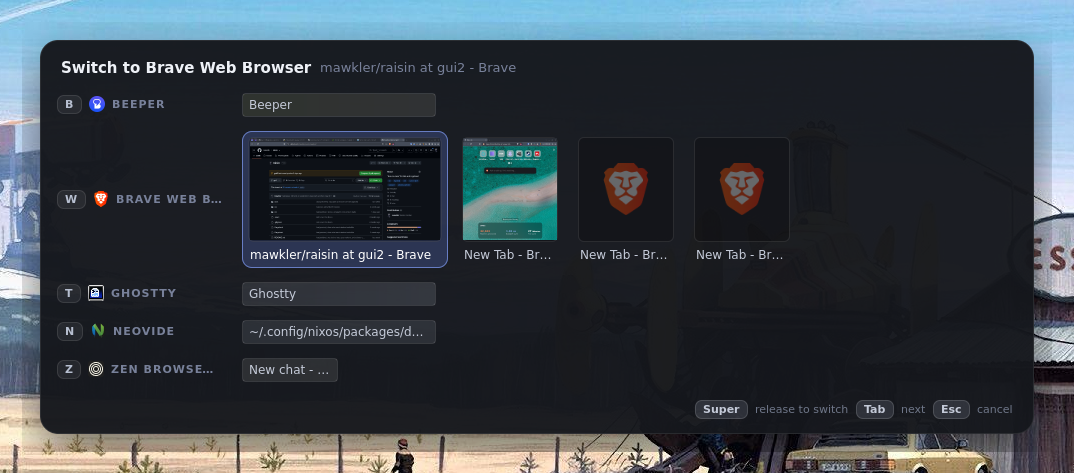
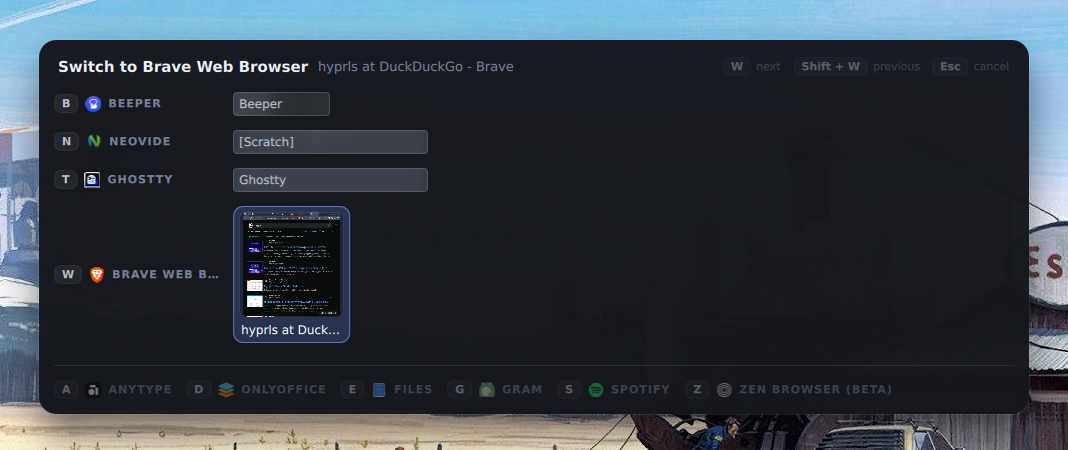
docs: describe the Quickshell switcher

diff --git a/docs/window-previews.md b/docs/window-previews.md
@@ -2,10 +2,8 @@
 
 How the switcher shows what each window actually looks like, rather than only its title.
 
-This started as a plan and is now mostly built: the standard capture protocols, on a thread of
-their own, feeding thumbnails into the rows of the application being switched to. What is still
-only planned is called out at the bottom. The survey and the protocol notes are kept because they
-are the reasoning behind what was built.
+The overlay is drawn by Quickshell, and the pictures come from its `ScreencopyView`: the daemon
+never touches a capture. This page is what the view does with them, and the reasoning behind it.
 
 ## What it has to leave alone
 
@@ -14,11 +12,14 @@ The switcher's two hard timing rules come first, and previews are additive to bo
 - **A fast tap must show nothing.** Capturing has to start when the overlay is revealed, not when
   the key is pressed. A tap that never reveals anything must never capture anything either.
 - **Confirming must not wait for drawing.** A preview that is still arriving, or never arrives,
-  must not delay or block a switch. The session state machine in `src/daemon/controller.rs` stays
-  exactly as it is: previews are a view concern, and the overlay shows a placeholder until a
-  texture turns up.
+  must not delay or block a switch. The session state machine in `src/daemon/controller.rs` owns
+  both rules: previews are a view concern, and the view shows a placeholder until a picture turns
+  up.
 
-That means no capture may ever be awaited on the path from a key press to a focused window.
+Both hold by construction. The view hears about a switch only through `Effect::Fill`, which the
+state machine emits once the switcher is to be on screen, so a tap never reaches it. And the daemon
+only ever writes to the view, on a thread of its own, so nothing on the path from a key press to a
+focused window can wait on it.
 
 ## How other switchers do it
 
@@ -28,132 +29,36 @@ That means no capture may ever be awaited on the path from a key press to a focu
 | Portal ScreenCast (xdg-desktop-portal + PipeWire) | OBS window capture, most screen sharing | Built for sharing, not thumbnails: a consent dialog per source, a PipeWire dependency, and a session setup measured in hundreds of milliseconds. Wrong shape for something that has to appear in 90 ms. |
 | `wlr-screencopy-unstable-v1`, cropped to the window | `grim`, `wayshot`, and the crop-the-screenshot trick | Captures an output, not a window. Only works for windows currently on screen, so most of a grouped list would come back blank, stale, or showing whatever is on top of them. |
 | `hyprland-toplevel-export-v1` | `xdg-desktop-portal-hyprland`'s window sharing | Captures one window by address, whether or not it's visible. Exact and available today — and Hyprland-only. |
-| `ext-image-capture-source-v1` + `ext-image-copy-capture-v1` | The standardised successor to both wlr-screencopy and toplevel-export | Same capability, specified rather than vendor-specific, with a capture source for a foreign toplevel. This is the one to build against. |
+| `ext-image-capture-source-v1` + `ext-image-copy-capture-v1` | The standardised successor to both wlr-screencopy and toplevel-export | Same capability, specified rather than vendor-specific, with a capture source for a foreign toplevel. What Quickshell's `ScreencopyView` uses where the compositor offers it. |
 
-## What Hyprland 0.56.2 actually implements
+## How the view does it
 
-Verified by reading the source rather than the wiki:
-
-- `src/protocols/ImageCaptureSource.cpp` exposes **both** capture source managers, including
-  `ext_foreign_toplevel_image_capture_source_manager_v1` (`CToplevelImageCaptureSourceProtocol`).
-- `src/protocols/ImageCopyCapture.cpp` opens a capture session per window
-  (`Screenshare::mgr()->newSession(client, window)`).
-- `src/managers/screenshare/ScreenshareFrame.cpp::renderWindow()` renders the window into the
-  capture buffer with `g_pHyprRenderer->renderWindow(...)` and no visibility check, so **a window
-  on another workspace still captures**. That is the single most important property for a switcher,
-  and the crop-a-screenshot approach can't provide it.
-- `src/protocols/ToplevelExport.cpp` is still there, so older Hyprland remains reachable by the
-  vendor protocol.
-
-Elsewhere, sway and niri have landed `ext-image-copy-capture-v1` for **outputs and cursors** but not
-yet for toplevels. So building against the standard protocol buys nothing today beyond Hyprland —
-and everything tomorrow, at no cost to us, as each compositor lands the toplevel source.
-
-## Identifying a window across protocols
-
-The capture source is obtained from an `ext-foreign-toplevel-list-v1` handle, while everything else
-raisin knows about a window comes from Hyprland's IPC. They can be matched exactly, with no title
-guessing:
-
-- `ext_foreign_toplevel_handle_v1.identifier` is `std::format("{:x}", window->m_stableID)`
-  (`src/protocols/ForeignToplevel.cpp:67`).
-- `hyprctl clients -j` reports the same value as `"stableId": "{:x}"` (`src/debug/HyprCtl.cpp:423`).
-
-So `Window` gains an `identifier: String` alongside `id`, filled in by each compositor integration,
-and the preview layer never has to know what a Hyprland address is. Compositors without a stable
-identifier can leave it empty and get no previews, which is a supported state.
-
-## Shape of the code
-
-```
-src/compositor/mod.rs        trait Previews { fn capture(&self, windows: &[Window], sink: Sink); fn cancel(&self); }
-src/preview/mod.rs           the Wayland client: its own connection, on its own thread
-src/preview/ext_capture.rs   ext-image-copy-capture + ext-foreign-toplevel-list   (preferred)
-src/preview/hypr_export.rs   hyprland-toplevel-export-v1                          (older Hyprland)
-src/daemon/overlay.rs        a GdkTexture per row, placeholder until one arrives
-```
-
-- **Connection.** A second Wayland connection on a dedicated thread, mirroring how the Hyprland
-  event socket is already read: a thread, an `async-channel`, and a task on the GTK main loop.
-  Sharing GDK's connection would save a socket and cost a `Backend::from_foreign_display` and a
-  lifetime problem; a dmabuf or shm buffer crosses connections happily, so there's nothing to gain.
-- **Crates.** `wayland-client` plus `wayland-protocols` 0.32 with the `staging` feature, which has
-  `ext::image_copy_capture::v1`, `ext::image_capture_source::v1` and `ext::foreign_toplevel_list::v1`.
-  The Hyprland fallback needs its XML vendored and run through `wayland-scanner` in a build script.
-- **Into GTK.** `shm` buffers become a `gdk::MemoryTexture` — one CPU copy, trivial at thumbnail
-  sizes. That is where to start. The protocol hands out buffers at the window's full size, though,
-  so a 4K window is a 33 MB copy; once several windows are captured at once, switch to
-  `gdk::DmabufTextureBuilder` (GTK 4.14+, `v4_14` on the gtk4 crate) and let the GPU do the
-  scaling.
-- **Where it hooks in.** `Effect::Fill` starts captures once the switcher is on screen, and
-  `Effect::Retitle` re-orders them when the user swaps application, so the group now being looked
-  at is captured first; ending a session cancels them. Never on `Effect::ScheduleReveal`, which is
-  what keeps a fast tap free of work.
-- **One frame, not a stream.** An `ext-image-copy-capture` session delivers frames continuously;
-  raisin captures one per window per reveal and stops. Content that changes while the switcher is
-  open is not worth a frame loop.
+- **Finding the window.** The daemon sends each window's Hyprland address. The view looks it up
+  among Quickshell's `Hyprland.toplevels` and captures `toplevel.wayland`. Hyprland's IPC writes an
+  address with `0x` in front and Quickshell without, so the view drops it before comparing.
+- **Thumbnails are live** while their application is the one being switched to, so a video or a
+  terminal keeps moving in the switcher.
+- **Markers are not.** Every other window is a line-tall slice through the middle of its own
+  window, blurred, lifted a little and laid faintly over the panel, so that it is recognisable by
+  its colours while its title stays readable on top. A marker is captured once each time the
+  switcher appears: a slice that small and that blurred doesn't change enough to be worth keeping
+  live.
+- **Captures start a frame late.** The switcher is drawn first, with whatever each window last
+  showed, and captures start once it is on screen. Starting them with it held the first frame up
+  by about 100 ms.
+- **The blur goes on an item around the capture.** A `ScreencopyView` that is itself made a layer,
+  which every effect needs, draws nothing at all into it. Wrapped in an item that is the layer, it
+  draws as usual.
+- **A handover is the frame growing.** A marker and its thumbnail are the same width; opening a row
+  is its frames growing from a line to a thumbnail tall, uncovering the whole window as the blur
+  clears.
 
 ## What can go wrong
 
-| Failure | What the user should see |
+| Failure | What the user sees |
 | --- | --- |
-| Compositor has no toplevel capture source | Titles only, exactly as today. Not an error. |
-| A client hasn't drawn since it was last visible | Whatever it last drew, which is what every other switcher shows too. |
-| Capture takes longer than the switch | The row keeps its placeholder, the switch is unaffected. |
-| XWayland windows | Expected to work through the same path; worth an explicit test, since XWayland surfaces have bitten screencopy implementations before. |
-| A window positioned entirely off the monitor | Its application's icon instead. Hyprland copies a window only while its box overlaps the monitor being rendered (`CScreenshareManager`), and skips the request silently rather than refusing it, so the client can only time out. Windows on hidden workspaces usually still overlap by a sliver and do capture. |
-| A huge window, or many at once | Captures run one at a time, the group being switched to first, and a newer request abandons whatever is still running. |
-
-## What was built
-
-`src/preview/capture.rs` is the Wayland client: it binds the three protocols above, keeps every
-window the compositor lists by its identifier, and captures one into shared memory on demand.
-`src/preview/mod.rs` runs it on a thread, takes requests over a channel and sends thumbnails back,
-and scales each capture down — averaging the pixels that fall into each one, so a window full of
-text doesn't come back as noise.
-
-The daemon asks for thumbnails in `Effect::Fill`, which the state machine only emits once the
-switcher is on screen. A tap quick enough to skip the overlay therefore captures nothing, and that
-is a property of the controller's tests rather than of timing.
-
-Thumbnails are bounded in both directions, so a portrait window doesn't make its row three times
-the height of the others, and each is captured at the size it is shown at: a `GtkPicture` asks for
-as much room as its texture is wide, so a larger capture would stretch the panel rather than sharpen
-the picture.
-
-Verified in a nested Hyprland with `grim`: three terminals captured into their rows, a fast tap that
-switched in 4 ms with no overlay and no captures, and a confirm that focused its window 2 ms after
-Super came up while captures were in flight.
-
-## Still only planned
-
-- **dmabuf.** Everything goes through shared memory and a CPU downscale today. On a 4K window that
-  is a 33 MB read per capture, on a thread of its own, which has not been worth avoiding yet.
-- **The fallback** to `hyprland-toplevel-export-v1` for Hyprland older than the standard protocols.
-  The trait boundary is there; the second implementation is not.
-- **Capturing the whole list** rather than the group being switched between, which would make
-  swapping application instant at proportionally more cost.
-- **XWayland**, which should work through the same path but has not been tried.
-
-## Settled since
-
-- **Shape.** Every thumbnail is the same height and as wide as its own window, so a row of them
-  reads as the windows themselves. A tile is sized from the window's geometry before its capture
-  arrives, which keeps the strip from reflowing as thumbnails land; a compositor that won't report
-  geometry falls back to a landscape shape until the capture corrects it.
-- **Layout.** Every window gets a thumbnail, not only the group being switched between: the strip
-  runs sideways, so a thumbnail on every tile costs width rather than height.
-- **Previews survive a session**, cached by identifier, so a switcher opened a second time shows
-  windows rather than empty boxes. The open question was whether a stale thumbnail is worse than
-  none; it isn't. The cache is keyed by window, so it can never show one window's contents under
-  another's name, and a fresh capture replaces it as soon as one arrives — the same "whatever it
-  last drew" the table above already accepts. The cache is cleared when the configured width
-  changes, since a texture captured at the old size would widen its tile.
-- **Retargeting doesn't rebuild.** Pointing the switch at another application changes the heading
-  and the highlight only. The strip already holds every window, so there is nothing to rebuild,
-  and the thumbnails stay where they are.
-
-## Open questions
-
-- Whether a strip of thumbnails above the list would beat one per tile, if the tiles start to feel
-  wide.
+| Quickshell isn't installed | No overlay at all. The keys still switch, and the daemon says why at startup. |
+| A window hasn't been drawn since it was last visible | Whatever it last drew, which is what every other switcher shows too. |
+| A capture takes longer than the switch | The tile keeps its application's icon; the switch is unaffected. |
+| A window positioned entirely off the monitor | Its application's icon instead. Hyprland copies a window only while its box overlaps the monitor being rendered. Windows on hidden workspaces usually still overlap by a sliver and do capture. |
+| The view crashes | The daemon starts it again, waiting longer each time it fails in a row, and catches it up on the switch in progress when it reconnects. |

diff --git a/README.md b/README.md
@@ -16,8 +16,9 @@ Currently supports [Niri](https://github.com/YaLTeR/niri) and [Hyprland](https:/
 
 ## The switcher
 
-On Hyprland, raisin can show an Alt-Tab style overlay while you hold `Super`. Start it once, for
-example from your Hyprland startup configuration:
+On Hyprland, raisin can show an Alt-Tab style overlay while you hold `Super`. The overlay is drawn
+by [Quickshell](https://quickshell.org), which has to be installed (the Nix package brings it
+along). Start the daemon once, for example from your Hyprland startup configuration:
 
 ```
 exec-once = raisin daemon
@@ -28,10 +29,10 @@ line of configuration — no compositor configuration to edit, and no restart.
 
 - Tap `Super` + the letter and the window is focused immediately, with nothing on screen.
 - Keep `Super` held a moment longer and the switcher appears: a row per application you gave a key
-  to, with the one you'd get highlighted. The application you're switching to shows what its
-  windows currently look like; the others show a marker per window, and the ones with nothing open
-  share a line so their keys are still to hand. Applications you haven't given a key to are left
-  out.
+  to, with the one you'd get highlighted. The application you're switching to shows its windows
+  live; the others show a marker per window, a blurred slice of the window it stands for, and the
+  ones with nothing open share a line so their keys are still to hand. Applications you haven't
+  given a key to are left out.
 - Press the same letter again to cycle through that application's windows, press another mapped
   letter to switch to that application instead, release `Super` to confirm, or press `Esc` to
   cancel.
@@ -43,6 +44,9 @@ holding `Super` to pick a window.
 
 `raisin switch <app>` does the same thing from a keybinding of your own, and says so plainly if the
 switcher isn't running.
+
+Without Quickshell the daemon still binds the keys and switches windows, and says at startup that
+there's nothing to draw the overlay with.
 
 ## Configuration
 
@@ -148,6 +152,17 @@ systemd: `programs.hyprland.withUWSM = true` does that. Leaving `settings` out k
 ### Install with cargo
 
 `cargo install --git github:mawkler/raisin`
+
+The switcher also needs Quickshell's `qs` on your `PATH`.
+
+### Working on the switcher's look
+
+The overlay is the QML in `shell/`, built into the binary. To run the daemon on the files in a
+checkout instead, so that Quickshell reloads them every time one is saved:
+
+```
+RAISIN_SHELL=$PWD/shell raisin daemon
+```
 
 ## Usage
 
